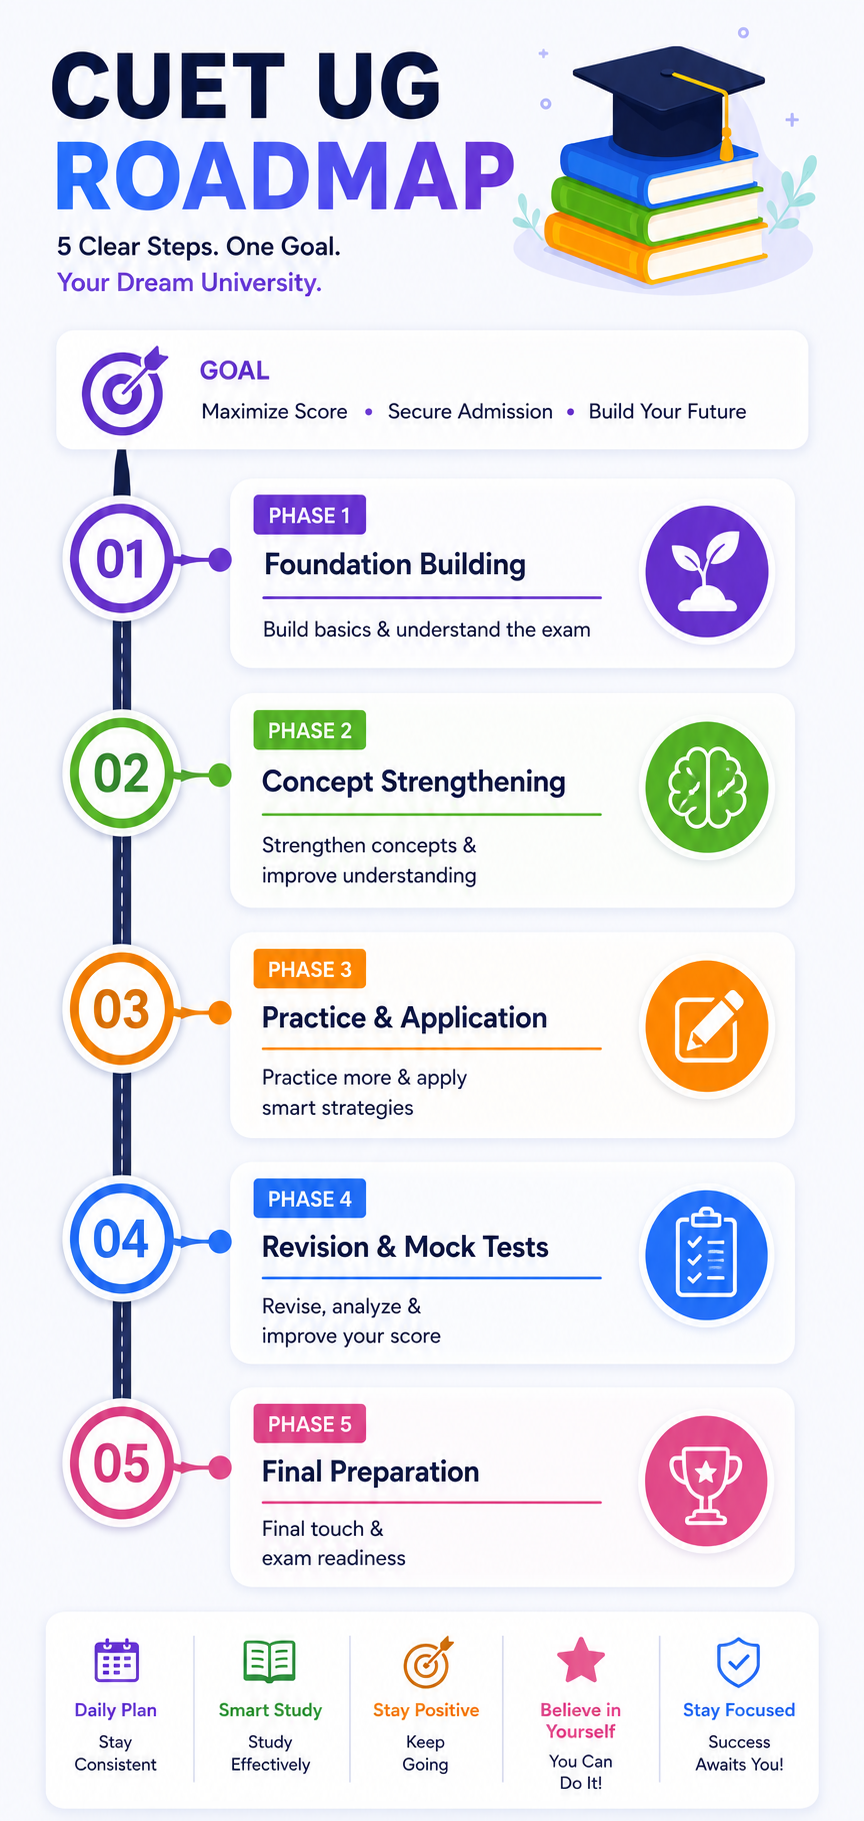
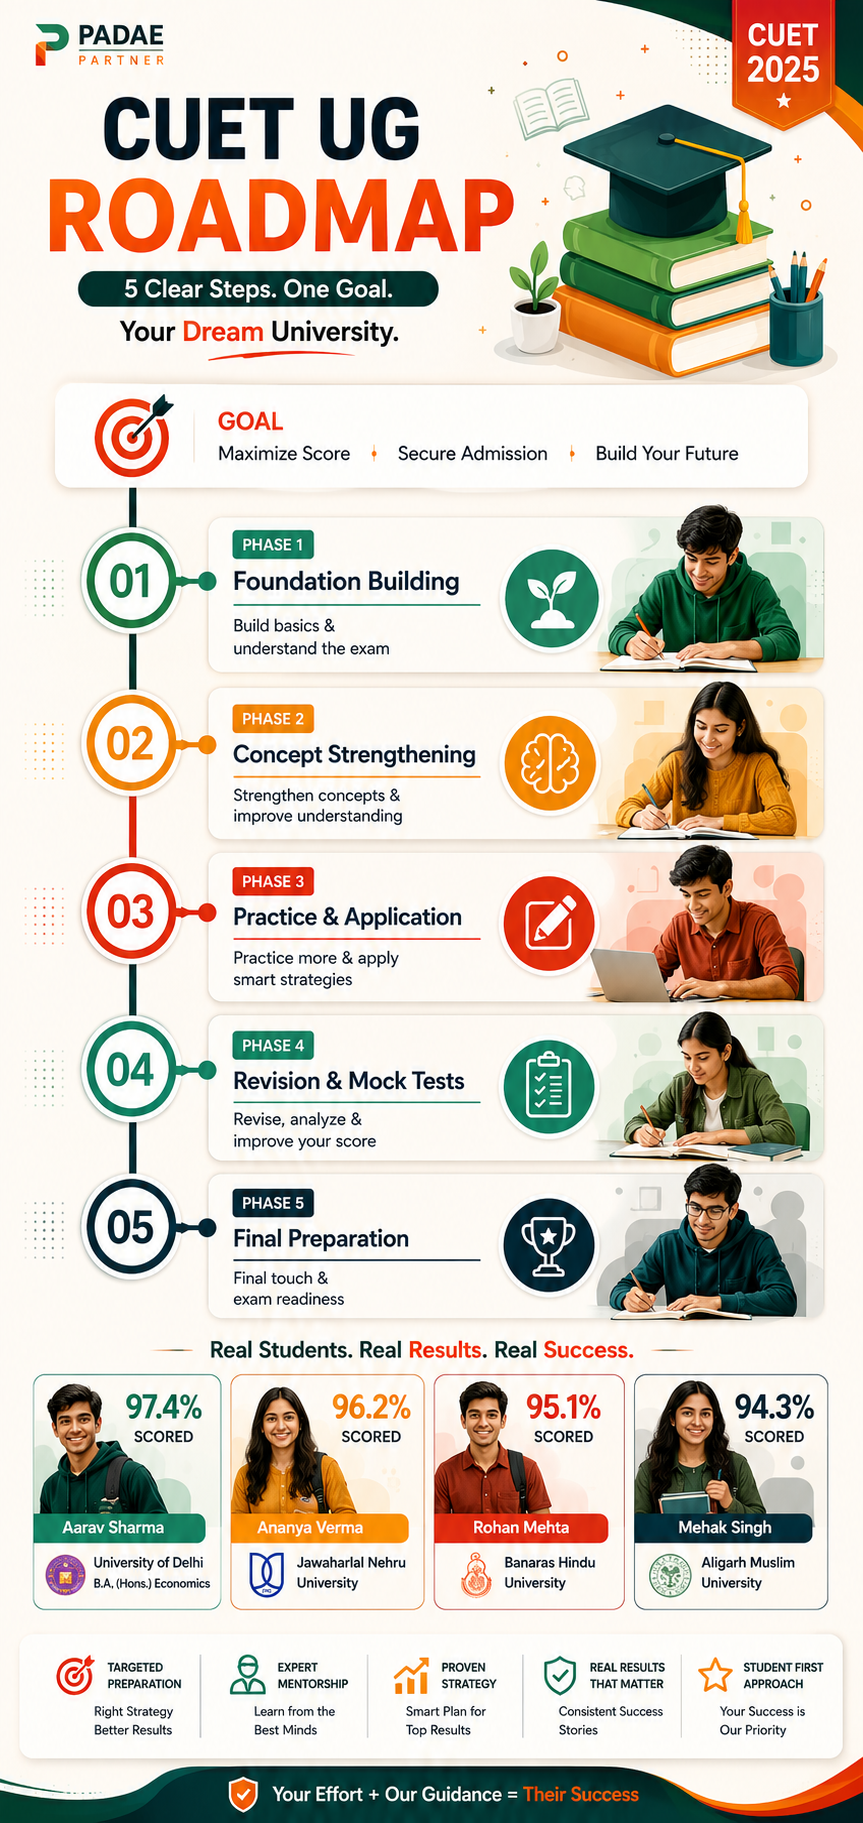
work

diff --git a/app/cuet-ug/cuet-ug.css b/app/cuet-ug/cuet-ug.css
@@ -311,6 +311,7 @@ body:has(.cuet-landing) .footer {
   background: #ffffff;
   border-bottom: 1px solid var(--lp-line);
   padding: 0;
+  margin-top: 30px;
 }
 
 .lp-roadmap-section picture {
@@ -429,10 +430,11 @@ body:has(.cuet-landing) .footer {
 }
 
 .lp-result-section {
-  background:
-    linear-gradient(180deg, #ffffff 0%, #f4faf7 100%);
+    background: #ffffff;
+
   border-bottom: 1px solid var(--lp-line);
-  padding: 28px 18px;
+  margin-top: 30px;
+  margin-bottom: 30px;
 }
 
 .lp-result-image {
